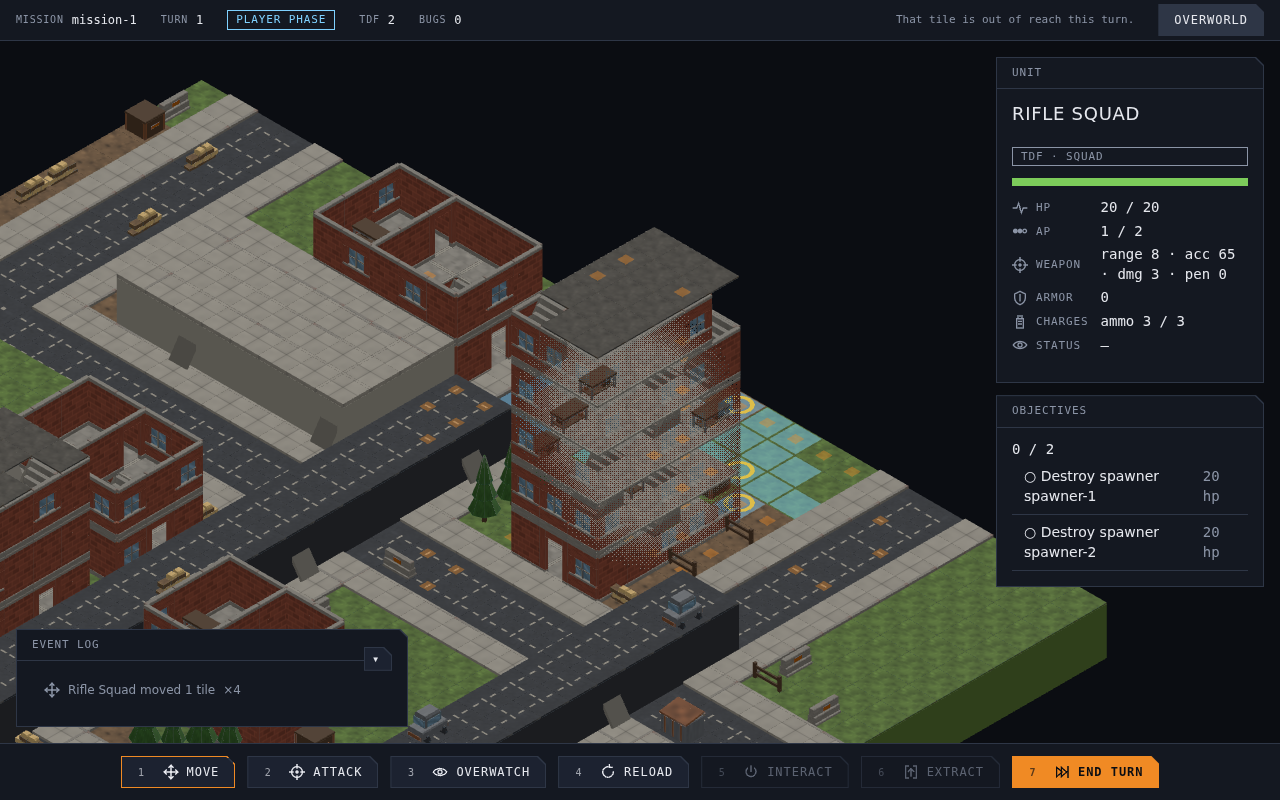
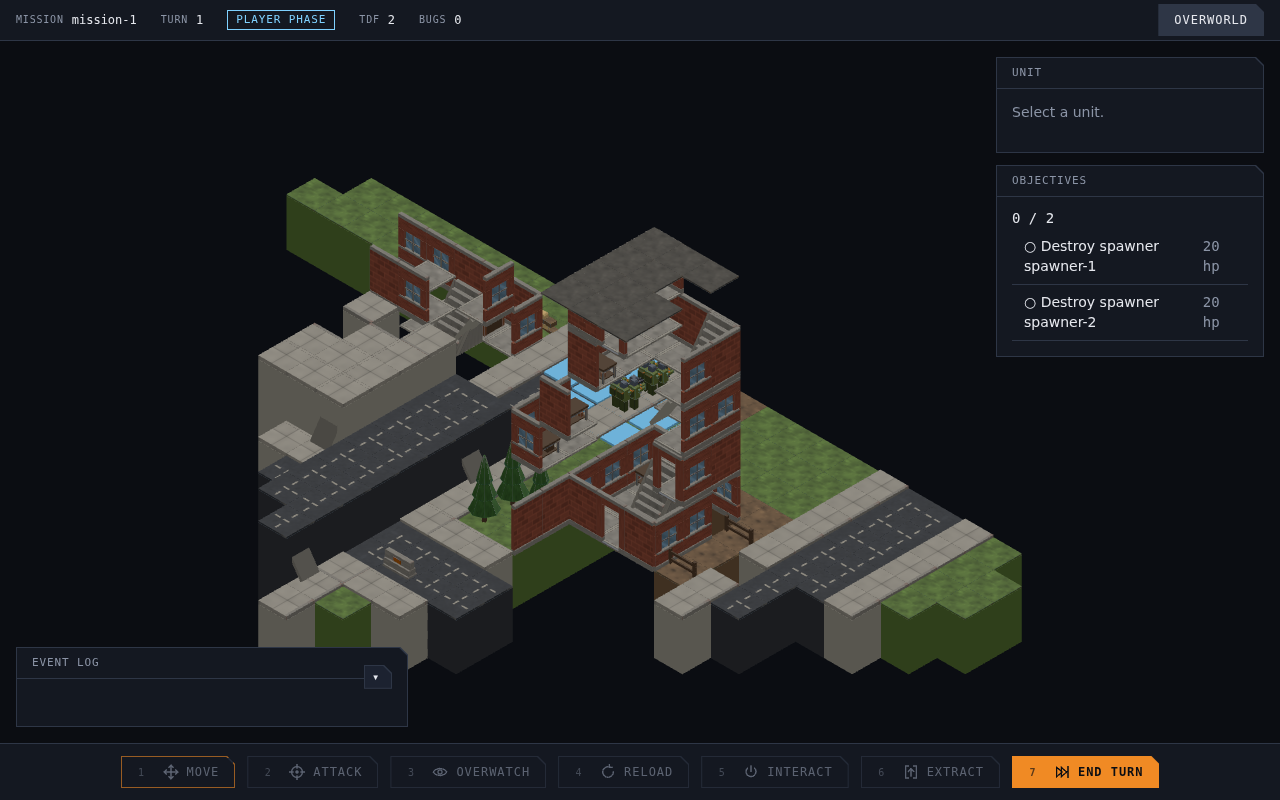
fix(graphics): ghosting to the style guide's numbers, and a 0.15s ramp (#526)
The Art Director specified §12.4 while this was in review, and corrected
their own first pass in it. Adopted as written:

- fade floor 0.35, not 0.18 — cover the player cannot see is cover they
  forget is there, and 0.25 mocked up dissolving most of the building
- radius 2.0 tiles, not 3.0; one world unit is one tile
- soft edge 0.65 tiles measured inward from the radius, rather than a
  fraction of it, so softness does not change when the radius does
- a 0.15s ramp per centre, because instant flickers as units move; a
  slot that changes hands restarts from zero so a new unit does not
  inherit the old one's ramp

Also selects what fades by model id rather than by category. The tiles
category carries a building's floors and the ground itself, and the
ground must never fade — a hole in the map is worse than the wall it was
opened to see past.

Claude-Session: https://claude.ai/code/session_01C66ucVPU3QY2D5tKwjKoWe

diff --git a/src/graphics/service/ghost-controller.ts b/src/graphics/service/ghost-controller.ts
@@ -12,6 +12,14 @@ import { MAX_GHOSTS } from "./ghost-cutaway";
 /** Where the units to keep visible are, in world space, newest first. */
 export type GhostSource = () => readonly Object3D[];
 
+/** Seconds a cutaway takes to open or close (style guide §12.4). */
+const FADE_SECONDS = 0.15;
+
+/** Keeps `value` inside `[low, high]`. */
+function clamp(value: number, low: number, high: number): number {
+  return Math.min(high, Math.max(low, value));
+}
+
 // ===========================================
 // Controller
 // ===========================================
@@ -45,6 +53,8 @@ export class GhostController implements FrameUpdatable {
   private readonly source: GhostSource;
   private readonly uniforms: GhostUniforms;
   private readonly scratch = new Vector3();
+  /** Object each centre slot is tracking, so a ramp follows its own unit. */
+  private readonly slots: (Object3D | undefined)[] = [];
 
   // ===========================================
   // Constructor
@@ -68,23 +78,41 @@ export class GhostController implements FrameUpdatable {
   /**
    * Refreshes the centres from the current camera and unit positions.
    *
-   * @param _deltaSeconds - Unused; the effect follows state, not time.
+   * @param deltaSeconds - Frame delta, which drives the fade ramp.
    */
-  update(_deltaSeconds: number): void {
+  update(deltaSeconds: number): void {
     const objects = this.source();
     const count = Math.min(objects.length, MAX_GHOSTS);
     this.camera.updateMatrixWorld();
-    for (let i = 0; i < count; i++) {
-      const object = objects[i];
+    const step = deltaSeconds / FADE_SECONDS;
+    for (let i = 0; i < MAX_GHOSTS; i++) {
+      const object = i < count ? objects[i] : undefined;
       const centre = this.uniforms.uGhostCentres.value[i];
-      if (object === undefined || centre === undefined) {
-        continue;
+      const previous = this.slots[i];
+      if (object !== undefined && centre !== undefined) {
+        object.getWorldPosition(this.scratch);
+        // View space is what the shader compares in, so the projection is
+        // done once here rather than per fragment.
+        centre.copy(this.scratch).applyMatrix4(this.camera.matrixWorldInverse);
       }
-      object.getWorldPosition(this.scratch);
-      // View space is what the shader compares in, so the projection is
-      // done once here rather than per fragment.
-      centre.copy(this.scratch).applyMatrix4(this.camera.matrixWorldInverse);
+      // A slot that changed hands starts from nothing, or the new unit
+      // inherits the old one's ramp and the cutaway appears to jump.
+      const strength =
+        object !== previous && object !== undefined
+          ? 0
+          : (this.uniforms.uGhostStrength.value[i] ?? 0);
+      const target = object === undefined ? 0 : 1;
+      this.uniforms.uGhostStrength.value[i] = clamp(
+        strength + Math.sign(target - strength) * step,
+        0,
+        1,
+      );
+      this.slots[i] = object;
     }
-    this.uniforms.uGhostCount.value = count;
+    // A slot still fading out has to stay in the loop's range.
+    this.uniforms.uGhostCount.value = this.uniforms.uGhostStrength.value.reduce(
+      (live, value, index) => (value > 0 ? index + 1 : live),
+      count,
+    );
   }
 }

diff --git a/src/graphics/service/ghost-cutaway.ts b/src/graphics/service/ghost-cutaway.ts
@@ -18,6 +18,8 @@ export interface GhostUniforms {
   readonly uGhostRadius: { value: number };
   /** Alpha a fully cut-away fragment keeps, so a wall reads as glass and not a hole. */
   readonly uGhostFloor: { value: number };
+  /** Per-centre ramp in `[0, 1]`, so a cutaway fades in and out rather than snapping. */
+  readonly uGhostStrength: { value: number[] };
 }
 
 // ===========================================
@@ -31,8 +33,8 @@ export interface GhostUniforms {
  */
 export const MAX_GHOSTS = 8;
 
-/** Where the falloff reaches full transparency, as a fraction of the radius. */
-const CORE_FRACTION = 0.45;
+/** Softness of the edge in world units, from the style guide (§12.4). */
+const SOFT_EDGE_UNITS = 0.65;
 
 // ===========================================
 // Uniforms
@@ -56,6 +58,7 @@ export function createGhostUniforms(
     },
     uGhostRadius: { value: radius },
     uGhostFloor: { value: floor },
+    uGhostStrength: { value: Array.from({ length: MAX_GHOSTS }, () => 0) },
   };
 }
 
@@ -150,7 +153,10 @@ const FRAGMENT_BODY = `
     // View space looks down -z, so a larger z is nearer the camera.
     if (vGhostView.z > centre.z) {
       float d = length(vGhostView.xy - centre.xy);
-      float f = smoothstep(uGhostRadius, uGhostRadius * ${CORE_FRACTION.toFixed(2)}, d);
+      // Soft edge measured inward from the radius in world units, so the
+      // building gives way rather than showing a circle cut in it.
+      float f = smoothstep(uGhostRadius, uGhostRadius - ${SOFT_EDGE_UNITS.toFixed(2)}, d);
+      f *= uGhostStrength[i];
       ghostAlpha = min(ghostAlpha, mix(1.0, uGhostFloor, f));
     }
   }
@@ -172,6 +178,7 @@ function fragmentHead(): string {
     uniform vec3 uGhostCentres[MAX_GHOSTS];
     uniform float uGhostRadius;
     uniform float uGhostFloor;
+    uniform float uGhostStrength[MAX_GHOSTS];
 
     float ghostDither(vec2 fragment) {
       int x = int(mod(fragment.x, 4.0));

diff --git a/src/graphics/service/ghost-controller.test.ts b/src/graphics/service/ghost-controller.test.ts
@@ -77,3 +77,43 @@ describe("GhostController (#526)", () => {
     expect(uniforms.uGhostCentres.value).toHaveLength(MAX_GHOSTS);
   });
 });
+
+describe("GhostController fade (#526, style guide §12.4)", () => {
+  it("ramps a new cutaway in rather than snapping it open", () => {
+    const uniforms = createGhostUniforms(2, 0.35);
+    const unit = at(0, 0, 0);
+    const controller = new GhostController(camera(), () => [unit], uniforms);
+
+    controller.update(0.05);
+    const early = uniforms.uGhostStrength.value[0] ?? 0;
+
+    expect(early).toBeGreaterThan(0);
+    expect(early).toBeLessThan(1);
+  });
+
+  it("reaches full strength in the configured 0.15s and stops there", () => {
+    const uniforms = createGhostUniforms(2, 0.35);
+    const unit = at(0, 0, 0);
+    const controller = new GhostController(camera(), () => [unit], uniforms);
+
+    for (let i = 0; i < 3; i++) controller.update(0.05);
+    expect(uniforms.uGhostStrength.value[0]).toBeCloseTo(1, 5);
+
+    controller.update(0.05);
+    expect(uniforms.uGhostStrength.value[0]).toBeCloseTo(1, 5);
+  });
+
+  it("ramps out when the unit goes, and keeps the slot live while it does", () => {
+    const uniforms = createGhostUniforms(2, 0.35);
+    let units = [at(0, 0, 0)];
+    const controller = new GhostController(camera(), () => units, uniforms);
+    for (let i = 0; i < 3; i++) controller.update(0.05);
+
+    units = [];
+    controller.update(0.05);
+
+    // Still drawing, or the cutaway would snap shut a frame after a death.
+    expect(uniforms.uGhostStrength.value[0]).toBeGreaterThan(0);
+    expect(uniforms.uGhostCount.value).toBeGreaterThan(0);
+  });
+});

diff --git a/src/graphics/view/tactical-map-view.ts b/src/graphics/view/tactical-map-view.ts
@@ -158,12 +158,15 @@ function stateOf(vision: IndexedVision, key: VisionTileKey): TileVisionState {
  * ```
  */
 /**
- * Categories that fade around an obscured unit. Walls are what actually
- * stands between the camera and the fight; ground and props are not
- * worth the transparency, and ghosting the ground would open holes in
- * the map itself.
+ * Model ids that fade around an obscured unit: everything a building is
+ * made of — walls, floors, roofs and parapets (style guide §12.4).
+ *
+ * Selected by model id rather than by category because the `tiles`
+ * category carries both a building's floors and the ground itself, and
+ * the ground must never fade: opening a hole in the map would be worse
+ * than the wall it was trying to see past.
  */
-const GHOSTED_CATEGORIES: ReadonlySet<string> = new Set(["walls"]);
+const GHOSTED_MODEL_PREFIX = "building.";
 
 /**
  *
@@ -330,7 +333,7 @@ export class TacticalMapView implements Disposable, TilePicker {
           : part.material;
         const material =
           this.ghostUniforms !== undefined &&
-          GHOSTED_CATEGORIES.has(label) &&
+          batch.modelId.startsWith(GHOSTED_MODEL_PREFIX) &&
           prototypeMaterial !== undefined
             ? applyGhostCutaway(prototypeMaterial, this.ghostUniforms)
             : part.material;

diff --git a/src/graphics/service/tactical-scene-builder.ts b/src/graphics/service/tactical-scene-builder.ts
@@ -72,12 +72,14 @@ export type UnitTemplateLookup = Readonly<Record<UnitTemplateId, UnitTemplate>>;
  */
 /**
  * Cutaway radius in world units and the alpha a fully cut-away wall
- * keeps. Roughly three tiles across, so the unit and the ground it is
- * fighting over both stay visible, and a floor rather than zero so the
- * wall still reads as a wall.
+ * keeps, from the style guide §12.4. One world unit is one tile, so the
+ * radius covers the unit's tile and its neighbours; the floor is 0.35
+ * rather than 0 because cover the player cannot see is cover they will
+ * forget is there. The Art Director's first pass was 0.25 over 2.5
+ * tiles, which mocked up dissolving most of the building.
  */
-const GHOST_RADIUS = 3;
-const GHOST_FLOOR = 0.18;
+const GHOST_RADIUS = 2;
+const GHOST_FLOOR = 0.35;
 
 /**
  *
